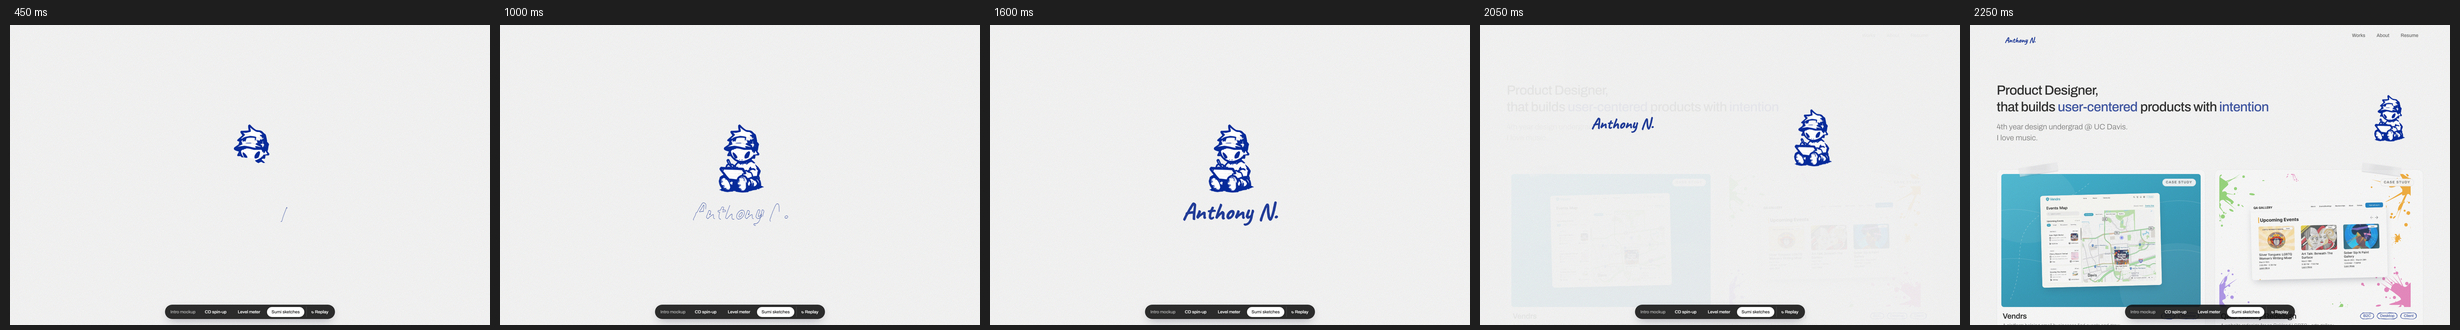
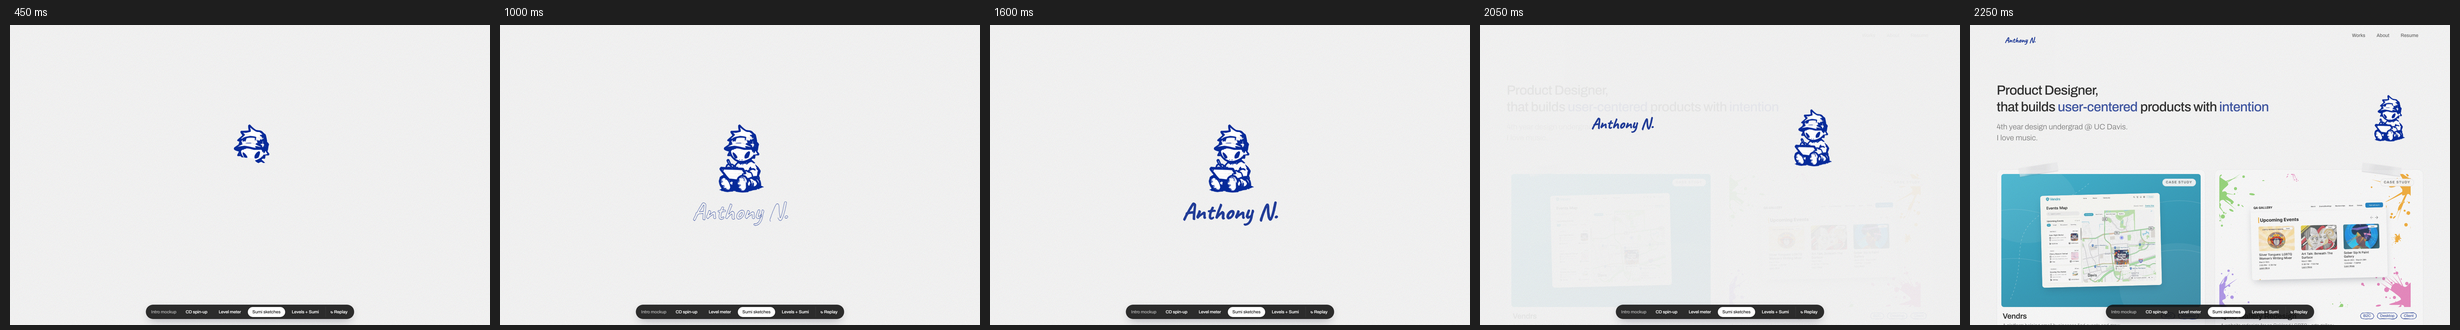
Intro mockup: Levels + Sumi combo; no stray pen marks before the name writes

diff --git a/mockups/intro-animations.html b/mockups/intro-animations.html
@@ -61,7 +61,18 @@
   .sk__sumi { display: block; width: 150px; height: auto; overflow: visible; }
   .sk__name { display: block; width: 300px; height: auto; overflow: visible; }
   .sk__name text { font-family: var(--hand); font-weight: 700; font-size: 72px; fill: var(--blue); fill-opacity: 0;
-    stroke: var(--blue); stroke-width: 1.4; stroke-dasharray: 260; stroke-dashoffset: 260; }
+    stroke: var(--blue); stroke-width: 1.4; stroke-dasharray: 700; stroke-dashoffset: 700;   /* longer than any letter's outline, so nothing peeks out early */ }
+
+  /* 4. Levels + Sumi: a small meter fills under Sumi while he's drawn in */
+  .combo { display: grid; justify-items: center; gap: 10px; }
+  .combo__low { display: grid; place-items: center; min-height: 92px; }
+  .combo__low > * { grid-area: 1 / 1; }
+  .meter__bars--sm { height: 56px; gap: 5px; }
+  .meter__bars--sm i { width: 9px;
+    -webkit-mask: repeating-linear-gradient(to top, #000 0 5px, transparent 5px 7px);
+            mask: repeating-linear-gradient(to top, #000 0 5px, transparent 5px 7px); }
+  .combo .meter { gap: 12px; }
+  .combo .meter__num b { font-size: 20px; }
 
   /* controls */
   .bar { position: fixed; left: 50%; bottom: 18px; z-index: 20; translate: -50% 0; display: flex; align-items: center; gap: 6px;
@@ -83,6 +94,7 @@
     <button type="button" data-kind="cd">CD spin-up</button>
     <button type="button" data-kind="meter">Level meter</button>
     <button type="button" data-kind="sketch">Sumi sketches</button>
+    <button type="button" data-kind="combo">Levels + Sumi</button>
     <button type="button" class="replay">↻ Replay</button>
   </div>
 
@@ -187,13 +199,72 @@
 
       var F0 = 1750, F1 = 2350;
       A(scrib, [ { strokeDashoffset: len }, { strokeDashoffset: 0 } ], { duration: 1150, easing: "cubic-bezier(.45,.05,.4,1)" });
-      A(text, [ { strokeDashoffset: 260 }, { strokeDashoffset: 0 } ], { duration: 800, delay: 650, easing: E.inOut });
+      A(text, [ { strokeDashoffset: 700 }, { strokeDashoffset: 0 } ], { duration: 800, delay: 650, easing: E.inOut });
       A(text, [ { fillOpacity: 0 }, { fillOpacity: 1 } ], { duration: 400, delay: 1250, easing: E.out });
       A(sumi, [ { transform: "none" }, { transform: "translate(" + (tc.x - sc.x) + "px," + (tc.y - sc.y) + "px) scale(" + ss + ")" } ],
         { duration: F1 - F0, delay: F0, easing: E.inOut });
       A(name, [ { transform: "none" }, { transform: "translate(" + (bcen.x - ncen.x) + "px," + (bcen.y - ncen.y) + "px) scale(" + ns + ")" } ],
         { duration: F1 - F0, delay: F0, easing: E.inOut });
       A(bg, [ { opacity: 1 }, { opacity: 0 } ], { duration: 450, delay: 1950, easing: E.inOut });
+    },
+
+    /* ---- 4. Levels + Sumi: Sumi is sketched in while a small meter fills under him;
+       at 100 the bars drop, "Anthony N." writes itself where they were, and both
+       fly to their spots on the page ---- */
+    combo: function () {
+      var zig = "M-60 10", y = 10, left = false;
+      while (y < 960) { y += 78; zig += " L" + (left ? -60 : 682) + " " + y; left = !left; }
+      var N = 16, bars = "";
+      for (var i = 0; i < N; i++) bars += "<i></i>";
+      stage.innerHTML = '<div class="intro-bg"></div><div class="center"><div class="combo">' +
+        '<svg class="sk__sumi" viewBox="0 0 622 900"><defs><mask id="cbm" maskUnits="userSpaceOnUse" x="-100" y="-100" width="822" height="1100">' +
+        '<path class="sk__scribble" d="' + zig + '" fill="none" stroke="#fff" stroke-width="160" stroke-linecap="round" stroke-linejoin="round" /></mask></defs>' +
+        '<image href="../assets/graphics/sumi/sketching.webp" width="622" height="900" mask="url(#cbm)" /></svg>' +
+        '<div class="combo__low"><div class="meter"><div class="meter__bars meter__bars--sm">' + bars + '</div>' +
+        '<div class="meter__num">Loading <b></b></div></div>' +
+        '<svg class="sk__name" viewBox="0 0 300 92"><text x="150" y="68" text-anchor="middle">Anthony N.</text></svg></div>' +
+        '</div></div>';
+      var bg = stage.querySelector(".intro-bg"), sumi = stage.querySelector(".sk__sumi"),
+          name = stage.querySelector(".sk__name"), text = name.querySelector("text"),
+          scrib = stage.querySelector(".sk__scribble"), num = stage.querySelector(".meter__num b"),
+          label = stage.querySelector(".meter__num");
+      var len = scrib.getTotalLength();
+      scrib.style.strokeDasharray = len; scrib.style.strokeDashoffset = len;
+
+      var T = 1150, D = T + 260;                    /* meter climbs to 100 by T, then drops */
+      [].slice.call(stage.querySelectorAll(".meter__bars--sm i")).forEach(function (bar, i) {
+        var kf = [], steps = 8, bias = .75 + .25 * Math.sin(i / N * Math.PI);
+        for (var k = 0; k <= steps; k++) {
+          var p = k / steps, lvl = k === steps ? 1 : Math.pow(p, 1.1) * bias * rnd(.6, 1.15) + rnd(-.08, .08);
+          lvl = Math.max(.04, Math.min(1, lvl));
+          kf.push({ clipPath: "inset(" + ((1 - lvl) * 100).toFixed(1) + "% 0 0 0)", offset: p * T / D, easing: "ease-out" });
+        }
+        kf.push({ clipPath: "inset(0% 0 0 0)", offset: (T + 90) / D, easing: E.in });
+        kf.push({ clipPath: "inset(100% 0 0 0)", offset: 1 });
+        A(bar, kf, { duration: D });
+      });
+      A(num, [ { "--n": 0 }, { "--n": 100 } ], { duration: T, easing: "cubic-bezier(.45,0,.75,1)" });
+      A(label, [ { opacity: 1 }, { opacity: 0 } ], { duration: 180, delay: T + 60 });
+      A(scrib, [ { strokeDashoffset: len }, { strokeDashoffset: 0 } ], { duration: T, easing: "cubic-bezier(.45,.05,.4,1)" });
+      A(text, [ { strokeDashoffset: 700 }, { strokeDashoffset: 0 } ], { duration: 650, delay: T + 120, easing: E.inOut });
+      A(text, [ { fillOpacity: 0 }, { fillOpacity: 1 } ], { duration: 350, delay: T + 520, easing: E.out });
+
+      var d = site.contentDocument;
+      var realSumi = d.querySelector(".hero__sumi"), realBrand = d.querySelector(".nav__brand");
+      var sr = sumi.getBoundingClientRect(), tr = realSumi.getBoundingClientRect();
+      var sc = center(sr), tc = center(tr), ss = tr.width / sr.width;
+      var rng = d.createRange(); rng.selectNodeContents(realBrand);
+      var br = rng.getBoundingClientRect(), nr = text.getBoundingClientRect(), svr = name.getBoundingClientRect();
+      var ncen = center(nr), bcen = center(br), ns = br.width / nr.width;
+      name.style.transformOrigin = (ncen.x - svr.left) + "px " + (ncen.y - svr.top) + "px";
+      [realSumi, realBrand].forEach(function (el) { el.style.visibility = "hidden"; restore.push(el); });
+
+      var F0 = T + 950, F1 = F0 + 560;
+      A(sumi, [ { transform: "none" }, { transform: "translate(" + (tc.x - sc.x) + "px," + (tc.y - sc.y) + "px) scale(" + ss + ")" } ],
+        { duration: F1 - F0, delay: F0, easing: E.inOut });
+      A(name, [ { transform: "none" }, { transform: "translate(" + (bcen.x - ncen.x) + "px," + (bcen.y - ncen.y) + "px) scale(" + ns + ")" } ],
+        { duration: F1 - F0, delay: F0, easing: E.inOut });
+      A(bg, [ { opacity: 1 }, { opacity: 0 } ], { duration: 420, delay: F0 + 180, easing: E.inOut });
     }
   };
 
